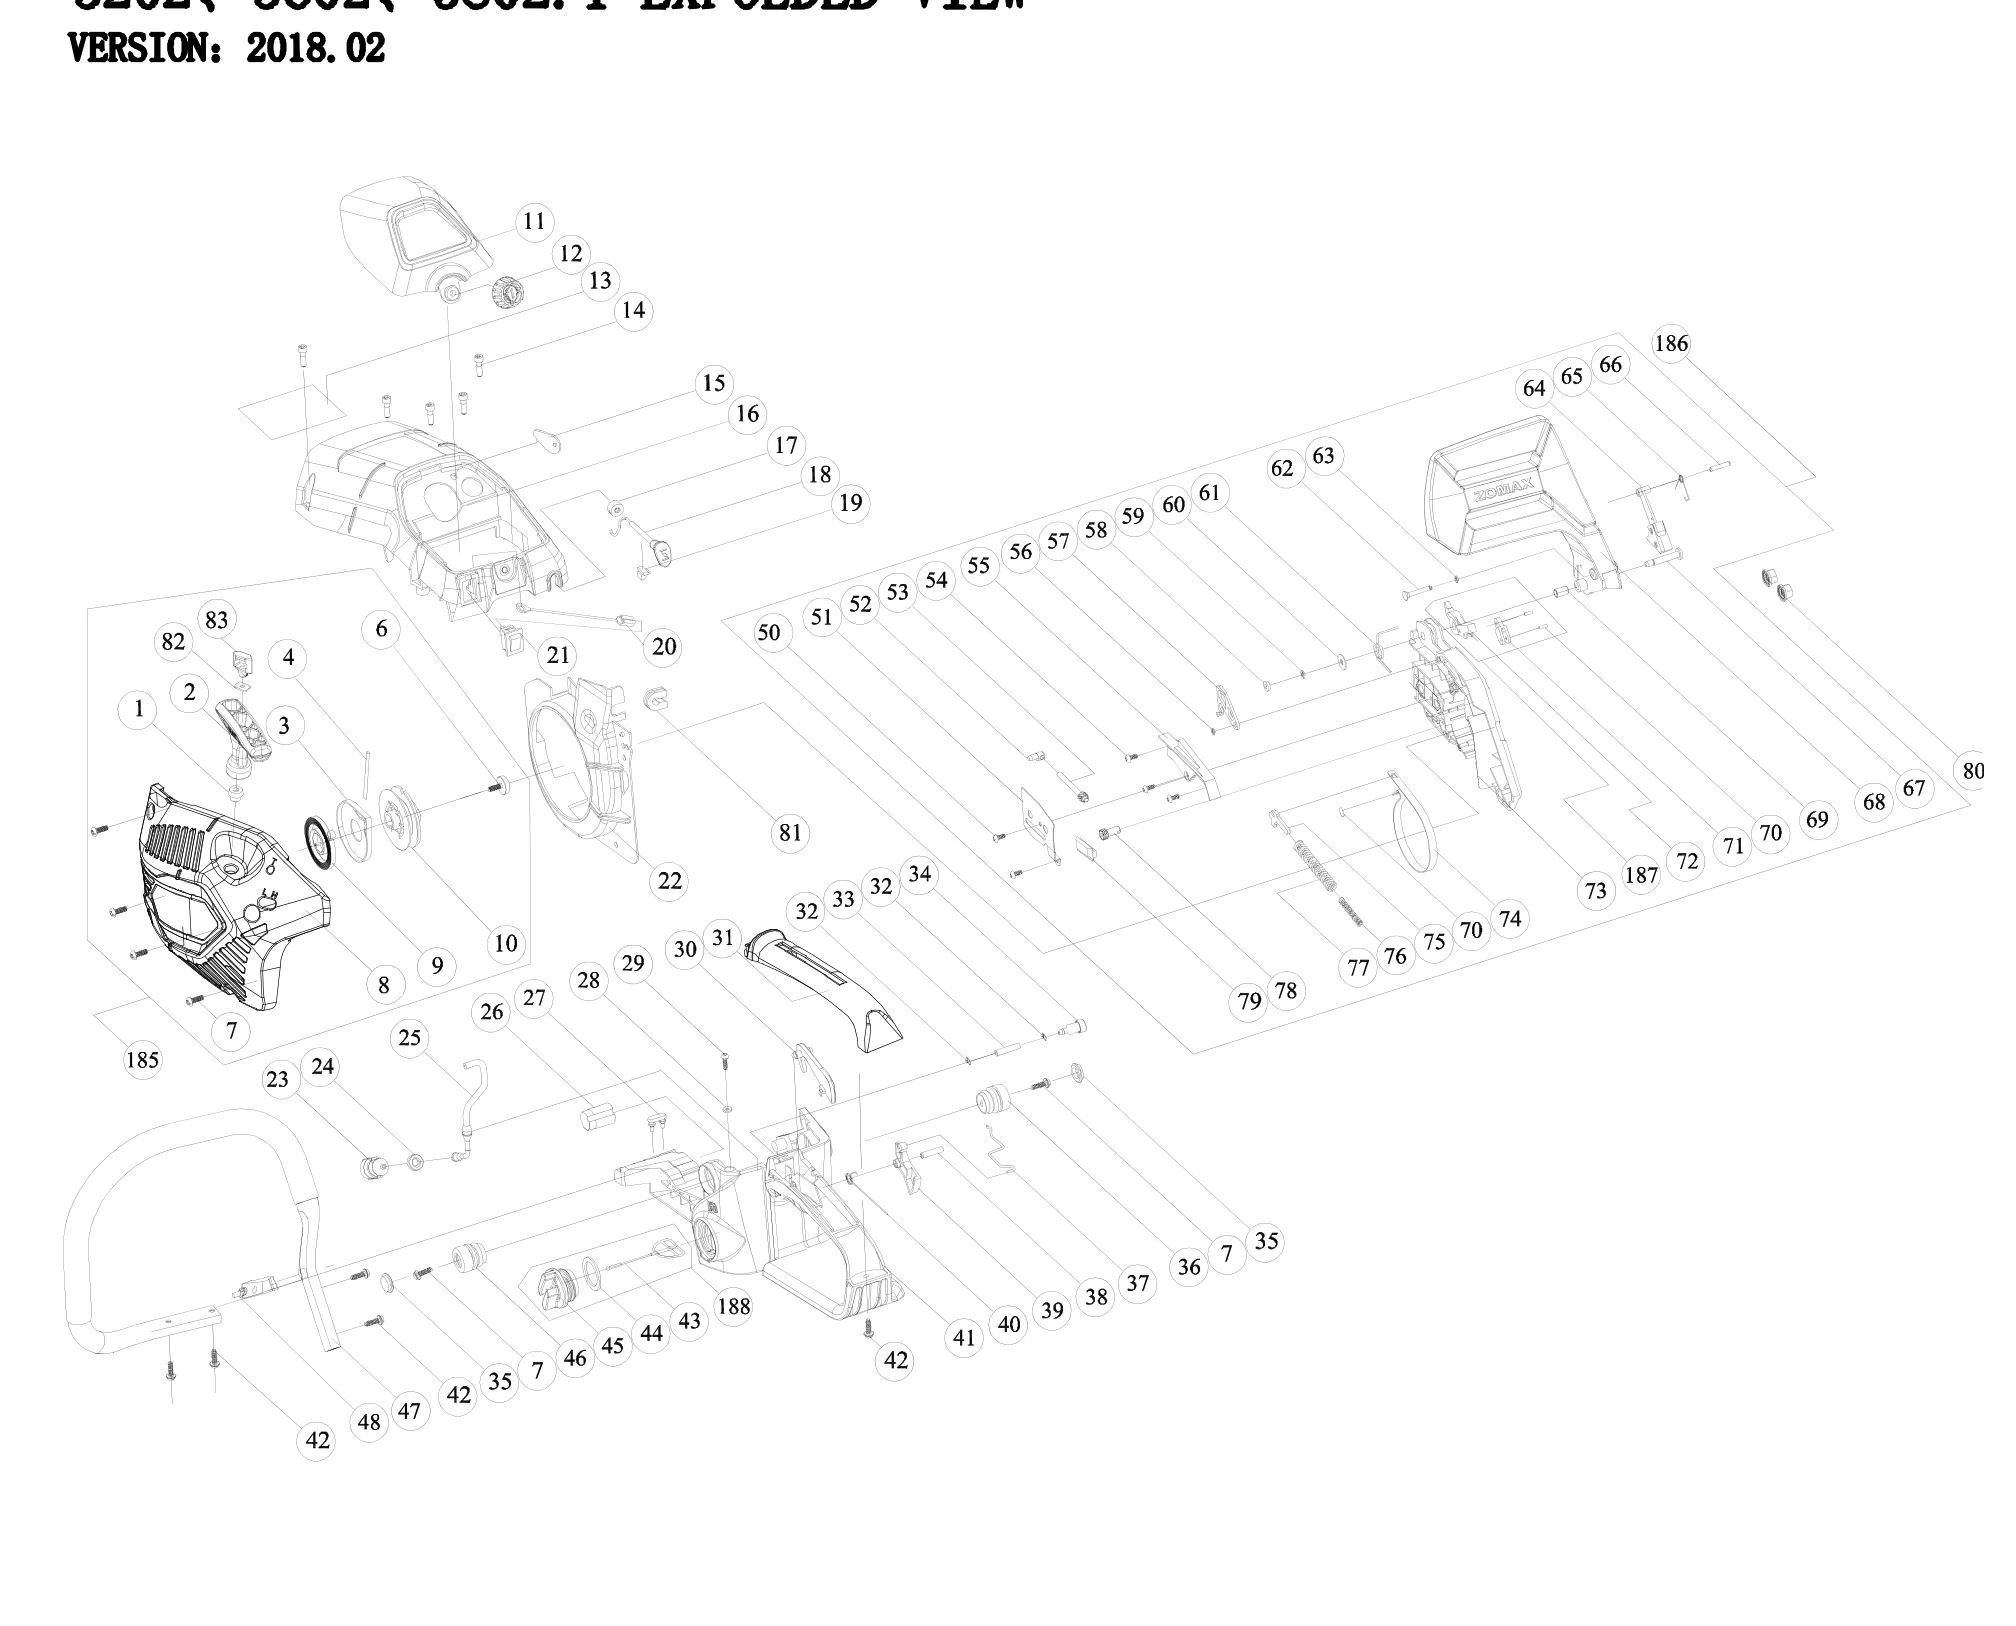
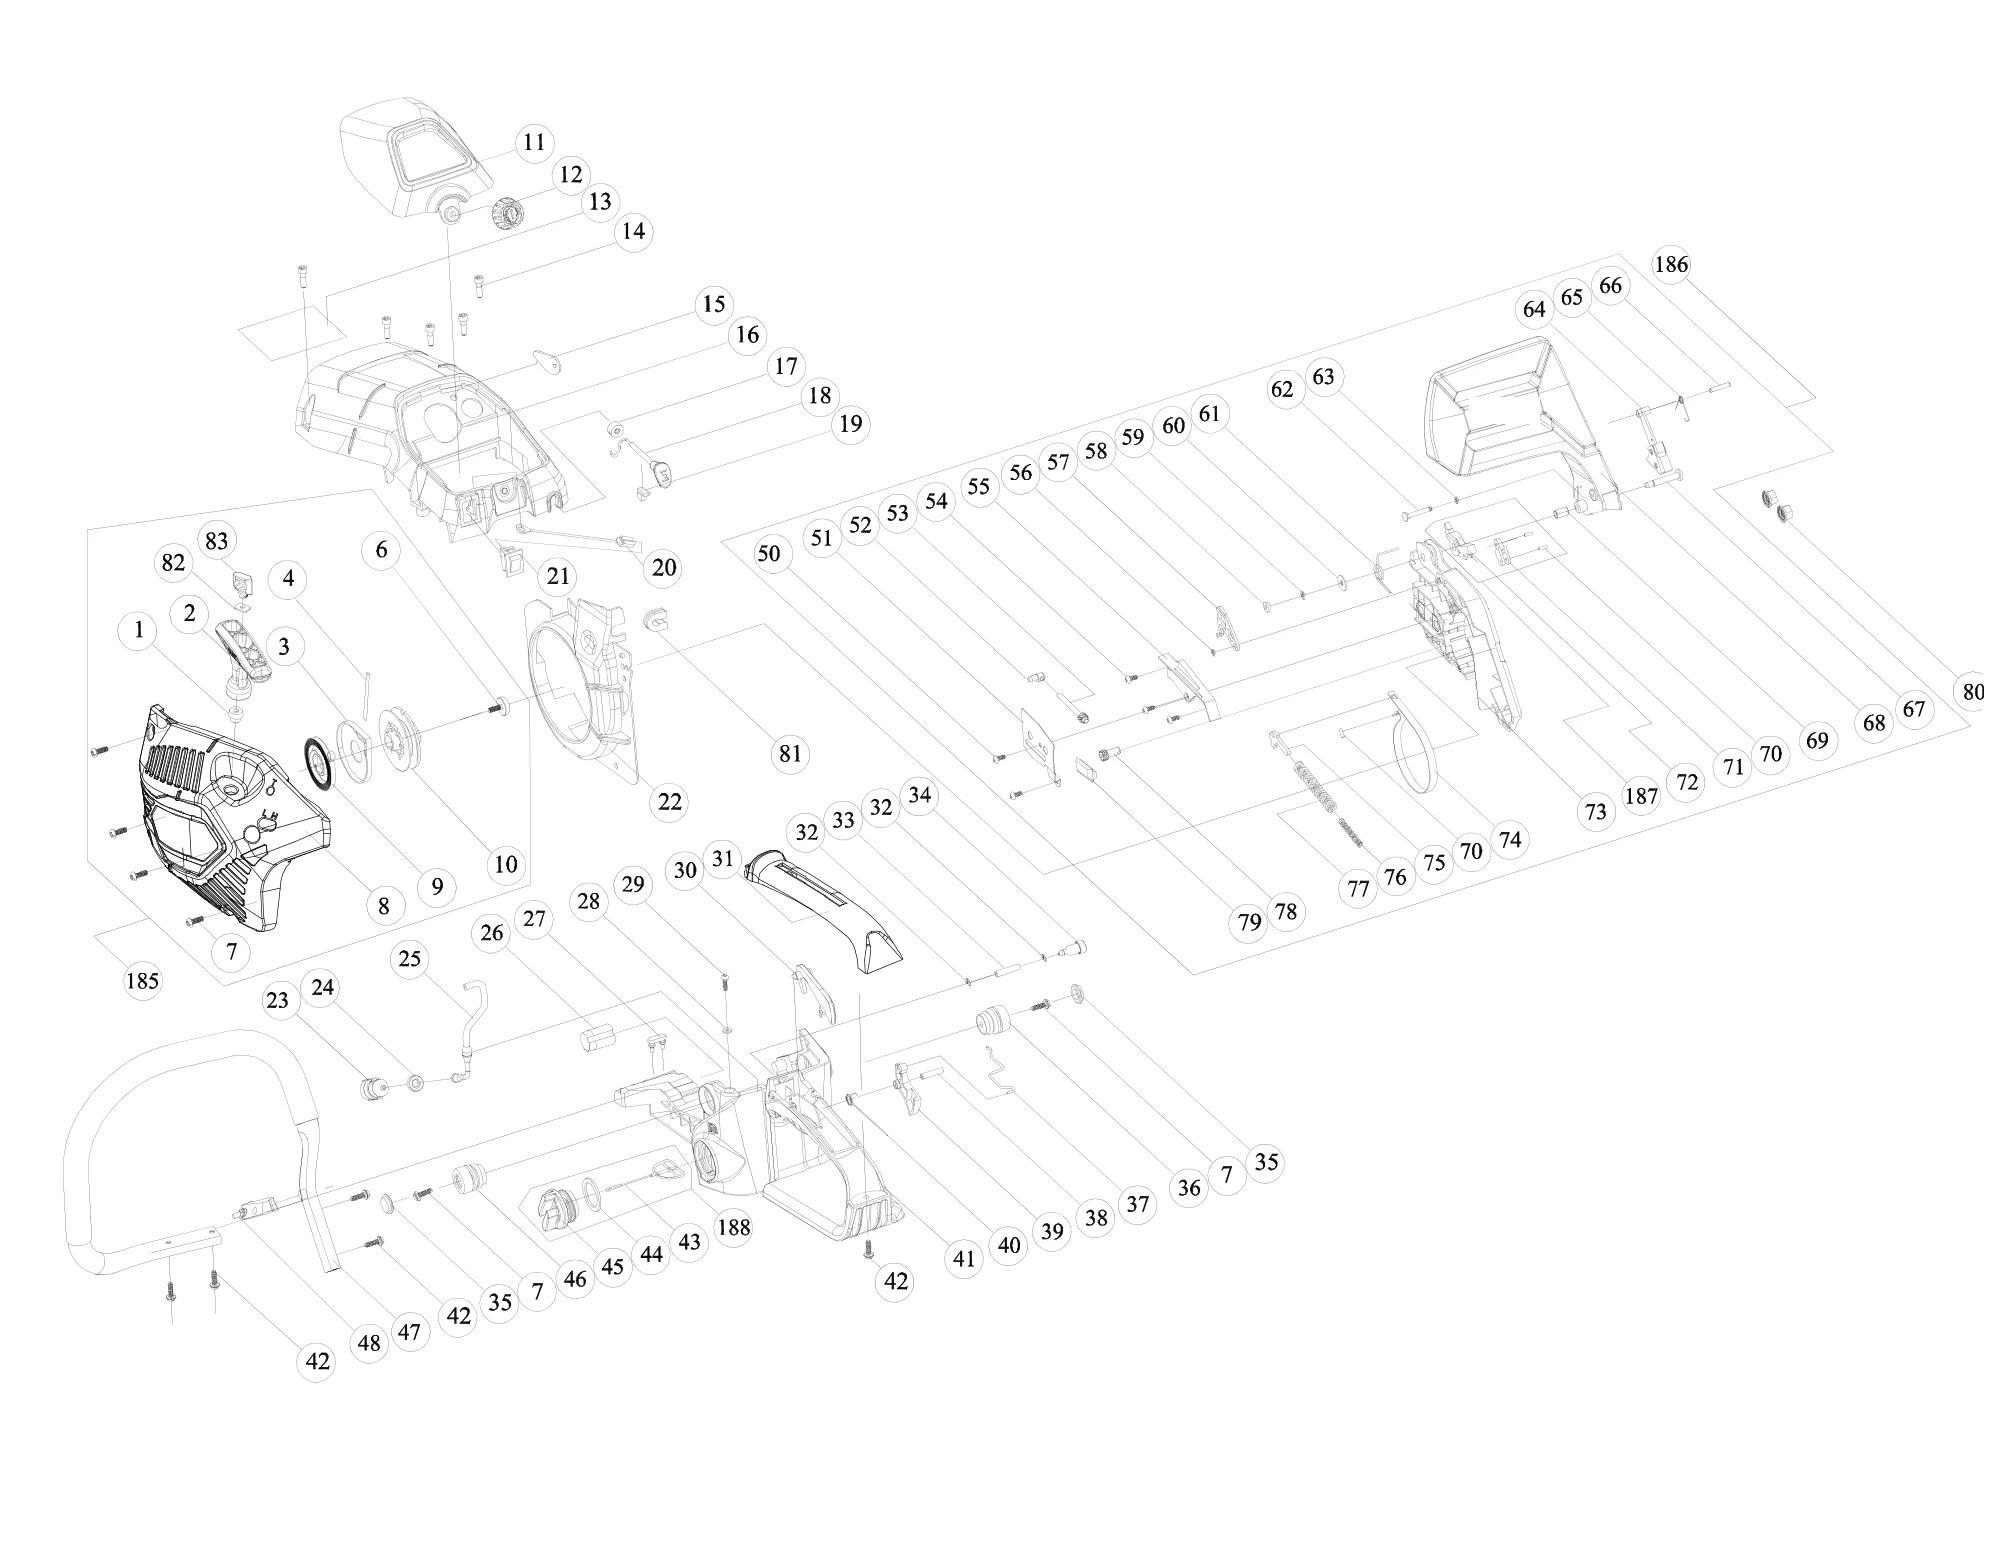
fix(อะไหล่ 7800TB): ลบชื่อยี่ห้อโรงงานออกจากหน้าเว็บ — ทั้งโลโก้ในภาพและข้อความ
ท่านประธานชี้มาที่โลโก้บนการ์ดมือ (ใกล้หมายเลข 64/65) แล้วสั่งให้ลบ

🔑 ลบสองที่ ไม่ใช่ที่เดียว — ตอนตรวจพบว่าชื่อยี่ห้อโผล่เป็น **ตัวหนังสือ** ในหน้าเว็บด้วย
   (มาจากช่อง ที่มา ของไฟล์ข้อมูล) ลบแต่ในภาพจะเหลือคำนั้นในหน้าโดยไม่มีใครเห็น
   ⇒ ตรวจปิดงานด้วย grep ทั้งโฟลเดอร์ out/ ต้องเหลือ 0 ไฟล์

ลบในภาพ: ทาขาวทับเฉพาะตัวอักษร เว้นขอบแผง 2-3px ทุกด้าน แล้วซูมตรวจด้วยตา 3 รอบ
   รอบแรกเหลือเศษตัวอักษรนอกกรอบ ขยายกรอบแล้วตรวจซ้ำจนเกลี้ยง

พ่วงแก้หัวกระดาษที่ถูกตัดครึ่ง — ขยับขอบบนจาก 30pt เป็น 52pt ให้พ้นบรรทัดหัวเรื่อง
   ⚠ ภาพเตี้ยลง ต้องแก้ w/h ในไฟล์ข้อมูลตาม ไม่งั้นจอคำนวณสัดส่วนผิด (ตรวจแล้วตรงทั้งสองใบ)

diff --git a/src/lib/parts.ts b/src/lib/parts.ts
@@ -94,7 +94,9 @@ export const PARTS_MODELS: PartsModel[] = [
   { slug: "f288xp", ชื่อ: "288 XP", คำค้นร้าน: "288XP" },
   // ตระกูลที่สาม — Zenoah (ตารางสองชุดต่อหน้า · รหัส 2880-12111 และแบบมีตัวอักษร 848C802101)
   { slug: "f5200", ชื่อ: "5200", คำค้นร้าน: "5200" },
-  // ตระกูลที่สี่ — ZOMAX (คู่มือเล่มเดียวครอบ 5202/5602/5802 · รหัส 10 หลัก 4002001123)
+  // ตระกูลที่สี่ — คู่มือเล่มเดียวครอบ 5202/5602/5802 · รหัส 10 หลัก เช่น 4002001123
+  // ⚠ ชื่อยี่ห้อโรงงานถูกลบออกจากหน้าเว็บตามคำสั่งท่านประธาน 13 ต.ค. 2569
+  //    (ลบทั้งโลโก้ในภาพแยกชิ้น และข้อความในช่อง ที่มา) — อย่าเผลอใส่กลับ
   // 🔑 7800TB = 5802 เท่านั้น — เลขที่มีจุด (108.2 · 111.2 · 116.2) คือกระบอกสูบ Ø46mm ของรุ่นนี้
   //    ตัว .1 .3 .4 เป็นของรุ่นพี่น้องคนละขนาด ห้ามหยิบมาปน
   { slug: "f7800tb", ชื่อ: "7800 TB", คำค้นร้าน: "7800TB" },
